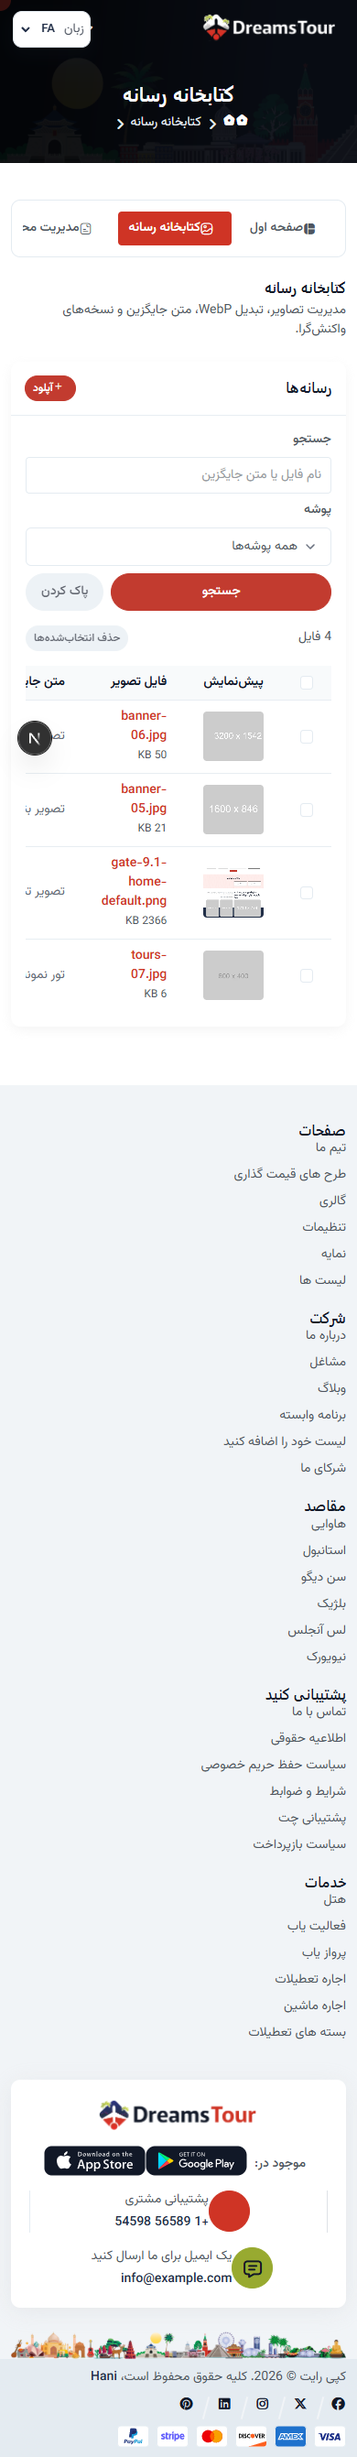
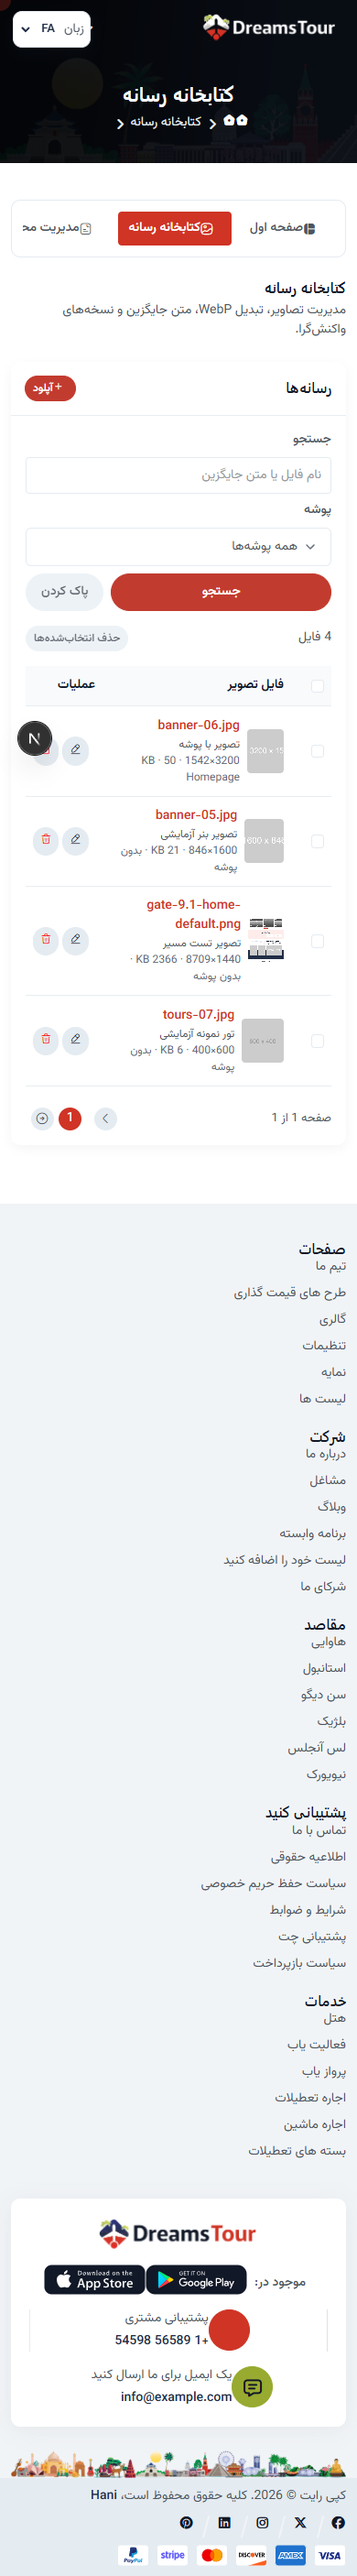
fix: remove media table nested scrolling and keep pagination visible

diff --git a/frontend/src/features/home-experience/ui/MediaManager.tsx b/frontend/src/features/home-experience/ui/MediaManager.tsx
@@ -193,12 +193,12 @@ export function MediaManager({
           </button>
         </div>
 
-        <div className="custom-datatable-filter table-responsive">
-          <table className="table datatable align-middle mb-0">
+        <div className="admin-table-wrap">
+          <table className="table datatable admin-data-table align-middle mb-0">
             <caption className="visually-hidden">{t("libraryTitle")}</caption>
             <thead className="thead-light">
               <tr>
-                <th className="w-1">
+                <th className="admin-check-cell">
                   <input
                     className="form-check-input"
                     type="checkbox"
@@ -211,13 +211,10 @@ export function MediaManager({
                     }}
                   />
                 </th>
-                <th>{t("preview")}</th>
                 <th>{t("file")}</th>
-                <th>{t("altText")}</th>
-                <th>{t("folder")}</th>
-                <th>{t("tags")}</th>
-                <th>{t("dimensions")}</th>
-                <th>{t("createdAt")}</th>
+                <th className="d-none d-xl-table-cell">{t("folder")}</th>
+                <th className="d-none d-xl-table-cell">{t("tags")}</th>
+                <th className="d-none d-md-table-cell">{t("createdAt")}</th>
                 <th className="text-end">{t("actions")}</th>
               </tr>
             </thead>
@@ -226,7 +223,7 @@ export function MediaManager({
                 const folder = folders.find((entry) => entry.id === item.folderId);
                 return (
                   <tr key={item.id}>
-                    <td>
+                    <td className="admin-check-cell">
                       <input
                         className="form-check-input"
                         type="checkbox"
@@ -242,35 +239,35 @@ export function MediaManager({
                       />
                     </td>
                     <td>
-                      <HaniMediaImage
-                        media={item}
-                        sizes="72px"
-                        width={72}
-                        height={54}
-                        className="rounded media-table-thumb"
-                        style={{ width: 72, height: 54, objectFit: "cover" }}
-                      />
+                      <div className="d-flex align-items-center gap-2 media-asset-cell">
+                        <HaniMediaImage
+                          media={item}
+                          sizes="72px"
+                          width={72}
+                          height={54}
+                          className="rounded media-table-thumb"
+                          style={{ width: 72, height: 54, objectFit: "cover" }}
+                        />
+                        <div className="min-w-0 media-asset-text">
+                          <Link
+                            href={`/admin/media/${item.id}`}
+                            className="link-primary fw-medium d-block text-truncate"
+                            title={item.originalFileName}
+                          >
+                            {item.originalFileName}
+                          </Link>
+                          <span className="d-block fs-12 text-gray-6 text-truncate">
+                            {item.altText}
+                          </span>
+                          <span className="d-block fs-12 text-gray-5 text-truncate">
+                            {item.width}×{item.height} · {(item.sizeBytes / 1024).toFixed(0)} KB
+                            <span className="d-lg-none"> · {folder?.name ?? t("noFolder")}</span>
+                          </span>
+                        </div>
+                      </div>
                     </td>
-                    <td>
-                      <Link
-                        href={`/admin/media/${item.id}`}
-                        className="link-primary fw-medium d-block text-truncate"
-                        style={{ maxWidth: 180 }}
-                        title={item.originalFileName}
-                      >
-                        {item.originalFileName}
-                      </Link>
-                      <span className="fs-12 text-gray-6">
-                        {(item.sizeBytes / 1024).toFixed(0)} KB
-                      </span>
-                    </td>
-                    <td>
-                      <span className="d-block text-truncate" style={{ maxWidth: 220 }}>
-                        {item.altText}
-                      </span>
-                    </td>
-                    <td>{folder?.name ?? "—"}</td>
-                    <td>
+                    <td className="d-none d-xl-table-cell">{folder?.name ?? "—"}</td>
+                    <td className="d-none d-xl-table-cell">
                       <div className="d-flex flex-wrap gap-1">
                         {item.tags.slice(0, 2).map((tag) => (
                           <span key={tag} className="badge bg-light text-dark border">
@@ -285,23 +282,20 @@ export function MediaManager({
                         {item.tags.length === 0 && <span className="text-gray-5">—</span>}
                       </div>
                     </td>
-                    <td dir="ltr" className="text-start text-nowrap">
-                      {item.width}×{item.height}
-                    </td>
-                    <td className="text-nowrap">
+                    <td className="text-nowrap d-none d-md-table-cell">
                       {formatIsoInstant(item.createdAt, locale, {
                         dateStyle: "medium"
                       })}
                     </td>
                     <td>
-                      <div className="d-flex justify-content-end gap-2">
+                      <div className="d-flex justify-content-end gap-1 media-table-actions">
                         <Link
                           href={`/admin/media/${item.id}`}
                           className="btn btn-light btn-sm"
                           aria-label={`${t("edit")}: ${item.originalFileName}`}
                         >
-                          <i className="isax isax-edit-2 me-1" />
-                          {t("edit")}
+                          <i className="isax isax-edit-2" />
+                          <span className="media-action-label ms-1">{t("edit")}</span>
                         </Link>
                         <button
                           type="button"
@@ -310,8 +304,8 @@ export function MediaManager({
                           disabled={pending}
                           aria-label={`${t("delete")}: ${item.originalFileName}`}
                         >
-                          <i className="isax isax-trash me-1" />
-                          {t("delete")}
+                          <i className="isax isax-trash" />
+                          <span className="media-action-label ms-1">{t("delete")}</span>
                         </button>
                       </div>
                     </td>
@@ -320,7 +314,7 @@ export function MediaManager({
               })}
               {items.length === 0 && (
                 <tr>
-                  <td colSpan={9} className="text-center text-gray-6 py-4">
+                  <td colSpan={6} className="text-center text-gray-6 py-4">
                     {t("empty")}
                   </td>
                 </tr>
@@ -329,50 +323,55 @@ export function MediaManager({
           </table>
         </div>
 
-        {totalPages > 1 && (
-          <nav aria-label={t("paginationLabel")} className="mt-4">
-            <ul className="paginations d-flex justify-content-center align-items-center">
-              <li className={`page-item me-2 ${page <= 1 ? "disabled" : ""}`}>
-                <Link
-                  className="page-link-1 d-flex justify-content-center align-items-center"
-                  href={listHref(Math.max(1, page - 1))}
-                  aria-disabled={page <= 1}
-                >
-                  <i className="isax isax-arrow-left-2" />
-                </Link>
-              </li>
-              {pageItems(page, totalPages).map((item, index) =>
-                item === "ellipsis" ? (
-                  <li key={`ellipsis-${index}`} className="page-item me-2">
-                    <span className="page-link-1 d-flex justify-content-center align-items-center">
-                      …
-                    </span>
-                  </li>
-                ) : (
-                  <li key={item} className="page-item me-2">
-                    <Link
-                      className={`page-link-1 d-flex justify-content-center align-items-center ${
-                        item === page ? "active" : ""
-                      }`}
-                      href={listHref(item)}
-                      aria-current={item === page ? "page" : undefined}
-                    >
-                      {item}
-                    </Link>
-                  </li>
-                )
-              )}
-              <li className={`page-item ${page >= totalPages ? "disabled" : ""}`}>
-                <Link
-                  className="page-link-1 d-flex justify-content-center align-items-center"
-                  href={listHref(Math.min(totalPages, page + 1))}
-                  aria-disabled={page >= totalPages}
-                >
-                  <i className="isax isax-arrow-right-2" />
-                </Link>
-              </li>
-            </ul>
-          </nav>
+        {total > 0 && (
+          <div className="d-flex flex-wrap align-items-center justify-content-between gap-2 mt-4">
+            <span className="text-gray-6 fs-13">
+              {t("pageInfo", { page, total: totalPages })}
+            </span>
+            <nav aria-label={t("paginationLabel")}>
+              <ul className="paginations d-flex justify-content-center align-items-center mb-0">
+                <li className={`page-item me-2 ${page <= 1 ? "disabled" : ""}`}>
+                  <Link
+                    className="page-link-1 d-flex justify-content-center align-items-center"
+                    href={listHref(Math.max(1, page - 1))}
+                    aria-disabled={page <= 1}
+                  >
+                    <i className="isax isax-arrow-left-2" />
+                  </Link>
+                </li>
+                {pageItems(page, totalPages).map((item, index) =>
+                  item === "ellipsis" ? (
+                    <li key={`ellipsis-${index}`} className="page-item me-2">
+                      <span className="page-link-1 d-flex justify-content-center align-items-center">
+                        …
+                      </span>
+                    </li>
+                  ) : (
+                    <li key={item} className="page-item me-2">
+                      <Link
+                        className={`page-link-1 d-flex justify-content-center align-items-center ${
+                          item === page ? "active" : ""
+                        }`}
+                        href={listHref(item)}
+                        aria-current={item === page ? "page" : undefined}
+                      >
+                        {item}
+                      </Link>
+                    </li>
+                  )
+                )}
+                <li className={`page-item ${page >= totalPages ? "disabled" : ""}`}>
+                  <Link
+                    className="page-link-1 d-flex justify-content-center align-items-center"
+                    href={listHref(Math.min(totalPages, page + 1))}
+                    aria-disabled={page >= totalPages}
+                  >
+                    <i className="isax isax-arrow-right-2" />
+                  </Link>
+                </li>
+              </ul>
+            </nav>
+          </div>
         )}
       </div>
     </div>

diff --git a/frontend/src/app/globals.scss b/frontend/src/app/globals.scss
@@ -447,3 +447,97 @@ html[lang="en"] body {
     min-height: 220px;
   }
 }
+
+// Media/admin data table: fit the content column, avoid nested scrollbars, and
+// collapse lower-priority columns instead of forcing horizontal scrolling.
+.admin-table-wrap {
+  width: 100%;
+  overflow: visible;
+}
+
+.admin-data-table {
+  width: 100%;
+  table-layout: fixed;
+}
+
+.admin-data-table .admin-check-cell {
+  width: 44px;
+}
+
+.admin-data-table th:nth-last-child(4),
+.admin-data-table td:nth-last-child(4) {
+  width: 130px;
+}
+
+.admin-data-table th:nth-last-child(3),
+.admin-data-table td:nth-last-child(3) {
+  width: 130px;
+}
+
+.admin-data-table th:nth-last-child(2),
+.admin-data-table td:nth-last-child(2) {
+  width: 120px;
+}
+
+.admin-data-table th:last-child,
+.admin-data-table td:last-child {
+  width: 170px;
+}
+
+.admin-data-table .media-asset-cell,
+.admin-data-table .media-asset-text {
+  min-width: 0;
+}
+
+.admin-data-table .media-table-thumb {
+  flex: 0 0 auto;
+}
+
+.admin-data-table .media-table-actions .btn {
+  white-space: nowrap;
+}
+
+@media (max-width: 991.98px) {
+  .admin-data-table th:nth-last-child(2),
+  .admin-data-table td:nth-last-child(2) {
+    width: 110px;
+  }
+
+  .admin-data-table th:last-child,
+  .admin-data-table td:last-child {
+    width: 150px;
+  }
+}
+
+@media (max-width: 767.98px) {
+  .admin-data-table > thead > tr > th,
+  .admin-data-table > tbody > tr > td {
+    padding: .7rem .5rem !important;
+  }
+
+  .admin-data-table th:last-child,
+  .admin-data-table td:last-child {
+    width: 84px;
+  }
+
+  .admin-data-table .media-table-thumb {
+    width: 48px !important;
+    height: 48px !important;
+  }
+
+  .admin-data-table .media-asset-text {
+    overflow: hidden;
+  }
+
+  .admin-data-table .media-action-label {
+    display: none;
+  }
+
+  .admin-data-table .media-table-actions .btn {
+    padding: .35rem .45rem;
+  }
+
+  .paginations .page-item {
+    margin-inline-end: .35rem !important;
+  }
+}

diff --git a/docs/plan/STATUS.md b/docs/plan/STATUS.md
@@ -591,3 +591,4 @@
 - Media upload UX: tag input and add button share one aligned row with chips below; folder creation moved next to the folder select and opens a centered modal, with the old bottom folder form removed. Tags now occupy a dedicated row, and the input, button, and hint share the same measured width on desktop and mobile.
 - Content admin IA: content list is now a template table with create/edit/delete actions; create and edit live on dedicated routes. CKEditor exposes font family/size/color, alignment, indentation, code, find/replace, special characters, and table controls, with sanitized rich-text output.
 - Media admin IA: media list is now a template table with search and folder filters, template pagination, bulk delete, and row edit/delete actions. Upload and metadata/replacement editing live on dedicated create and edit routes.
+- Media table layout: compact responsive columns collapse folder/tags/date at smaller widths, eliminating nested horizontal and vertical scrollbars; pagination and page count are always shown when the library has rows.

diff --git a/docs/plan/DONE.md b/docs/plan/DONE.md
@@ -299,3 +299,4 @@
 | `e835e68` | Media tag row: dedicated row with equal-width input, button, and hint |
 | `e835e68` | Content admin table + separate editor routes; expanded CKEditor toolbar and sanitized styles |
 | `c617368` | Media admin table: filters, pagination, create/edit routes |
+| `pending` | Media table layout: no nested scroll, responsive columns, always-visible pagination |
